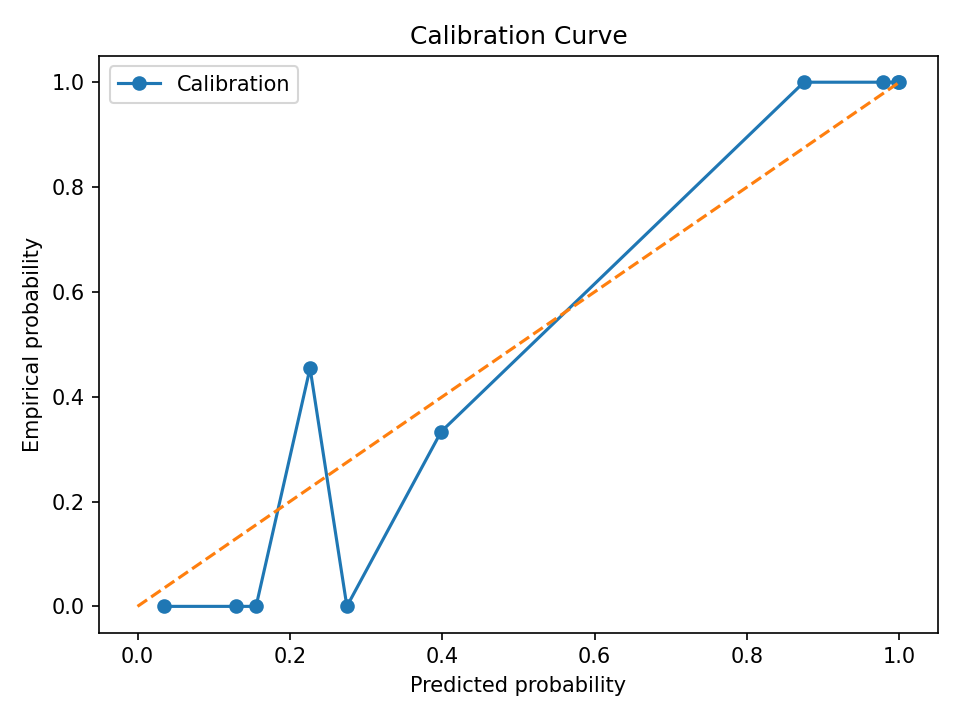
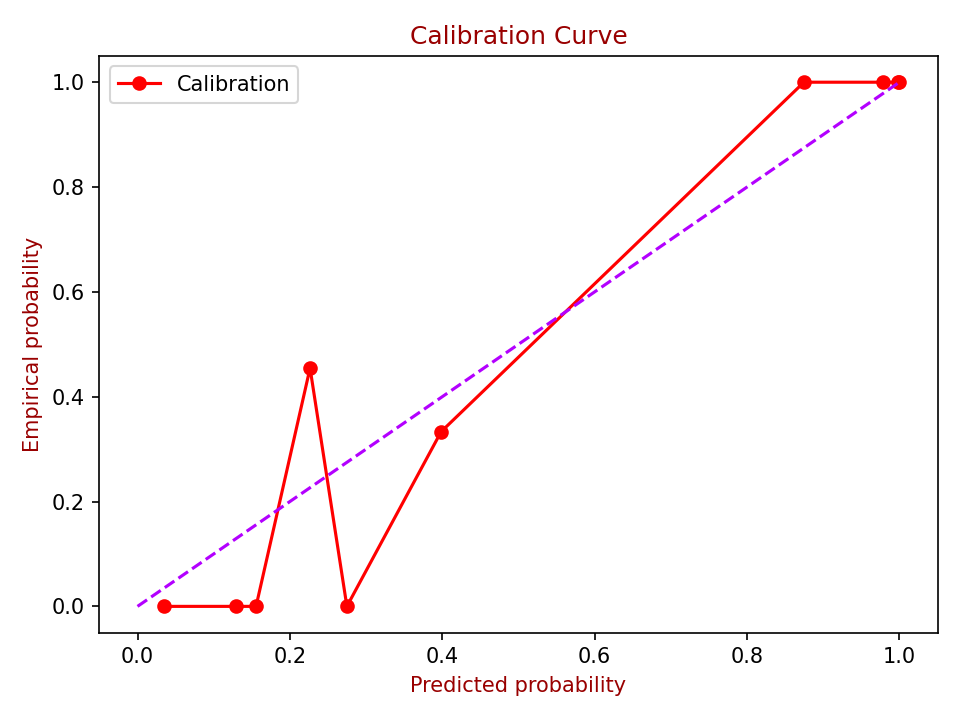
Updated the colors of the drawn plots to be more visible

diff --git a/src/zkuc/metrics/eval.py b/src/zkuc/metrics/eval.py
@@ -46,11 +46,11 @@ def save_plots(y_true: np.ndarray, y_score: np.ndarray, out_dir: str):
     # ROC
     fpr, tpr, _ = roc_curve(y_true, y_score)
     plt.figure()
-    plt.plot(fpr, tpr, label="ROC")
-    plt.plot([0,1],[0,1], linestyle="--")
-    plt.xlabel("False Positive Rate")
-    plt.ylabel("True Positive Rate")
-    plt.title("ROC Curve")
+    plt.plot(fpr, tpr, label="ROC", color=(1.0, 0.0, 0.0))
+    plt.plot([0,1],[0,1], linestyle="--", color=(0.7, 0.0, 1.0))
+    plt.xlabel("False Positive Rate", color = (0.6, 0.0, 0.0))
+    plt.ylabel("True Positive Rate", color = (0.6, 0.0, 0.0))
+    plt.title("ROC Curve", color = (0.6, 0.0, 0.0))
     plt.legend()
     plt.tight_layout()
     plt.savefig(out / "roc.png", dpi=150)
@@ -60,10 +60,10 @@ def save_plots(y_true: np.ndarray, y_score: np.ndarray, out_dir: str):
     prec, rec, _ = precision_recall_curve(y_true, y_score)
     ap = average_precision_score(y_true, y_score)
     plt.figure()
-    plt.plot(rec, prec, label=f"PR (AP={ap:.3f})")
-    plt.xlabel("Recall")
-    plt.ylabel("Precision")
-    plt.title("Precision-Recall Curve")
+    plt.plot(rec, prec, label=f"PR (AP={ap:.3f})", color=(1.0, 0.0, 0.0))
+    plt.xlabel("Recall", color = (0.6, 0.0, 0.0))
+    plt.ylabel("Precision", color = (0.6, 0.0, 0.0))
+    plt.title("Precision-Recall Curve", color = (0.6, 0.0, 0.0))
     plt.legend()
     plt.tight_layout()
     plt.savefig(out / "pr.png", dpi=150)
@@ -71,11 +71,11 @@ def save_plots(y_true: np.ndarray, y_score: np.ndarray, out_dir: str):
     # Calibration
     prob_true, prob_pred = calibration_curve(y_true, y_score, n_bins=10, strategy="quantile")
     plt.figure()
-    plt.plot(prob_pred, prob_true, marker="o", label="Calibration")
-    plt.plot([0,1],[0,1], linestyle="--")
-    plt.xlabel("Predicted probability")
-    plt.ylabel("Empirical probability")
-    plt.title("Calibration Curve")
+    plt.plot(prob_pred, prob_true, marker="o", label="Calibration", color=(1.0, 0.0, 0.0))
+    plt.plot([0,1],[0,1], linestyle="--", color=(0.7, 0.0, 1.0))
+    plt.xlabel("Predicted probability", color = (0.6, 0.0, 0.0))
+    plt.ylabel("Empirical probability", color = (0.6, 0.0, 0.0))
+    plt.title("Calibration Curve", color = (0.6, 0.0, 0.0))
     plt.legend()
     plt.tight_layout()
     plt.savefig(out / "calibration.png", dpi=150)

diff --git a/src/zkuc/cli.py b/src/zkuc/cli.py
@@ -323,9 +323,9 @@ def model_eval_cmd(jsonl_path, model_in, cal_in, report_out, plots_out, scores_o
         ids_lab = [ids_all[i] for i, m in enumerate(mask) if m]
         with open(scores_out, "w", newline="") as fout:
             w = csv.writer(fout)
-            w.writerow(["id", "score", "buggy_post", "llr"])
-            for rid, s, bp, l in zip(ids_lab, proba, unsup["buggy_post"], unsup["llr"]):
-                w.writerow([rid, float(s), float(bp), float(l)])
+            w.writerow(["id", "label", "score", "buggy_post", "llr"])
+            for rid, yy, s, bp, l in zip(ids_lab, y, proba, unsup["buggy_post"], unsup["llr"]):
+                w.writerow([rid, int(yy), float(s), float(bp), float(l)])
         click.echo(f"Saved scores to {scores_out}")
 
 
